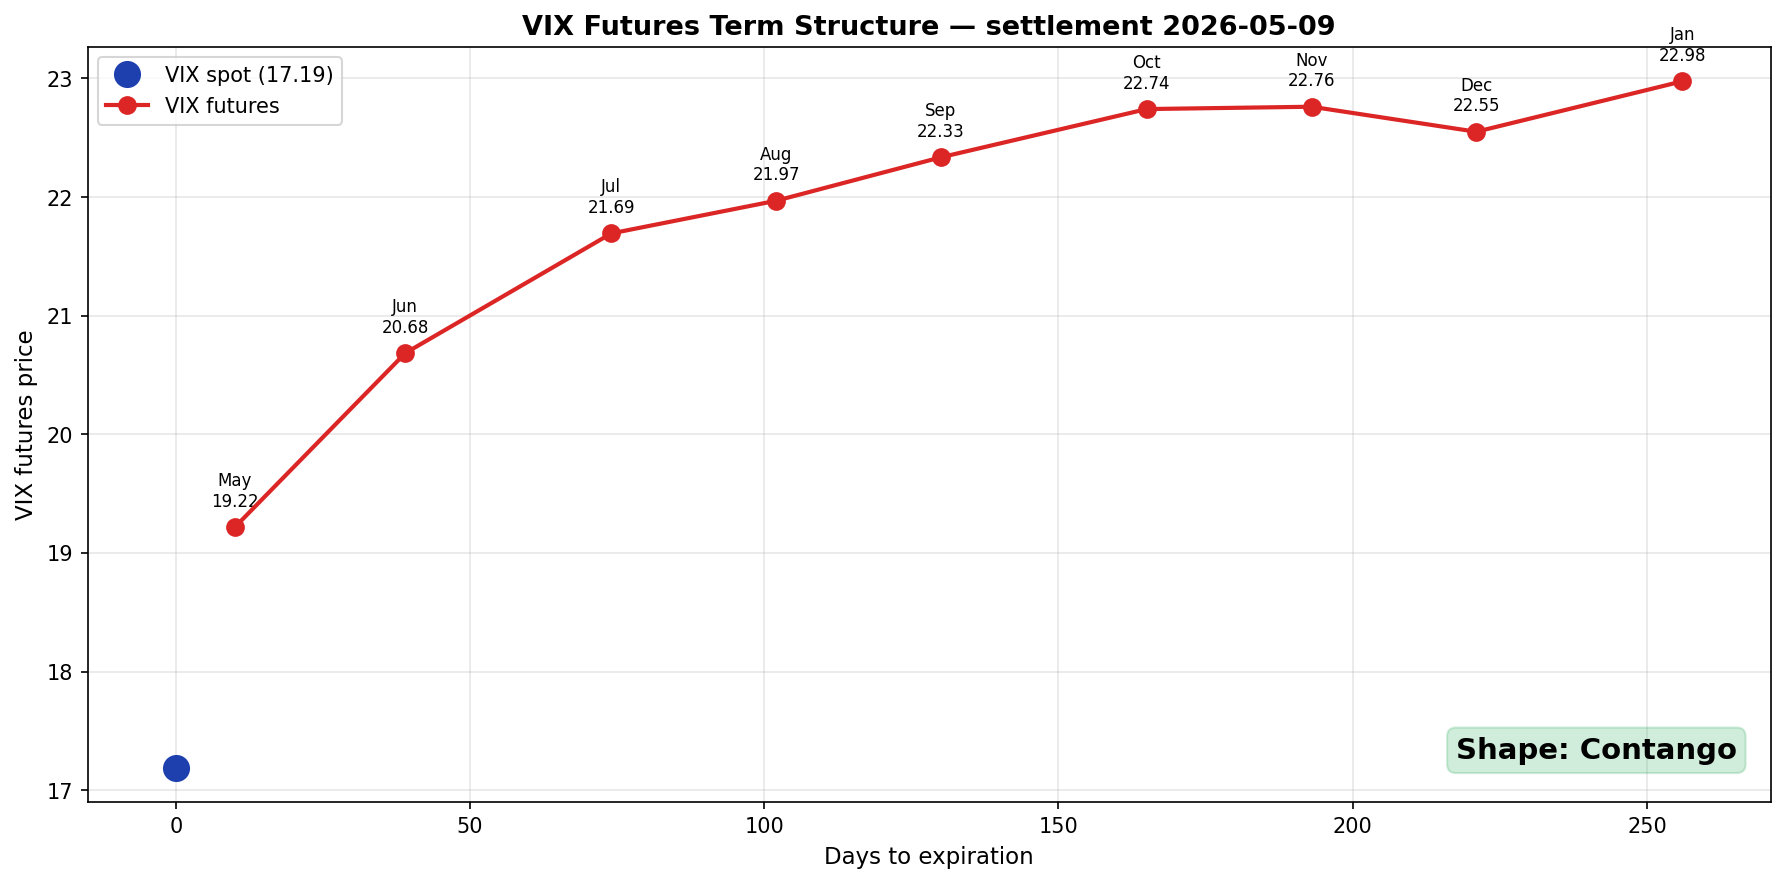
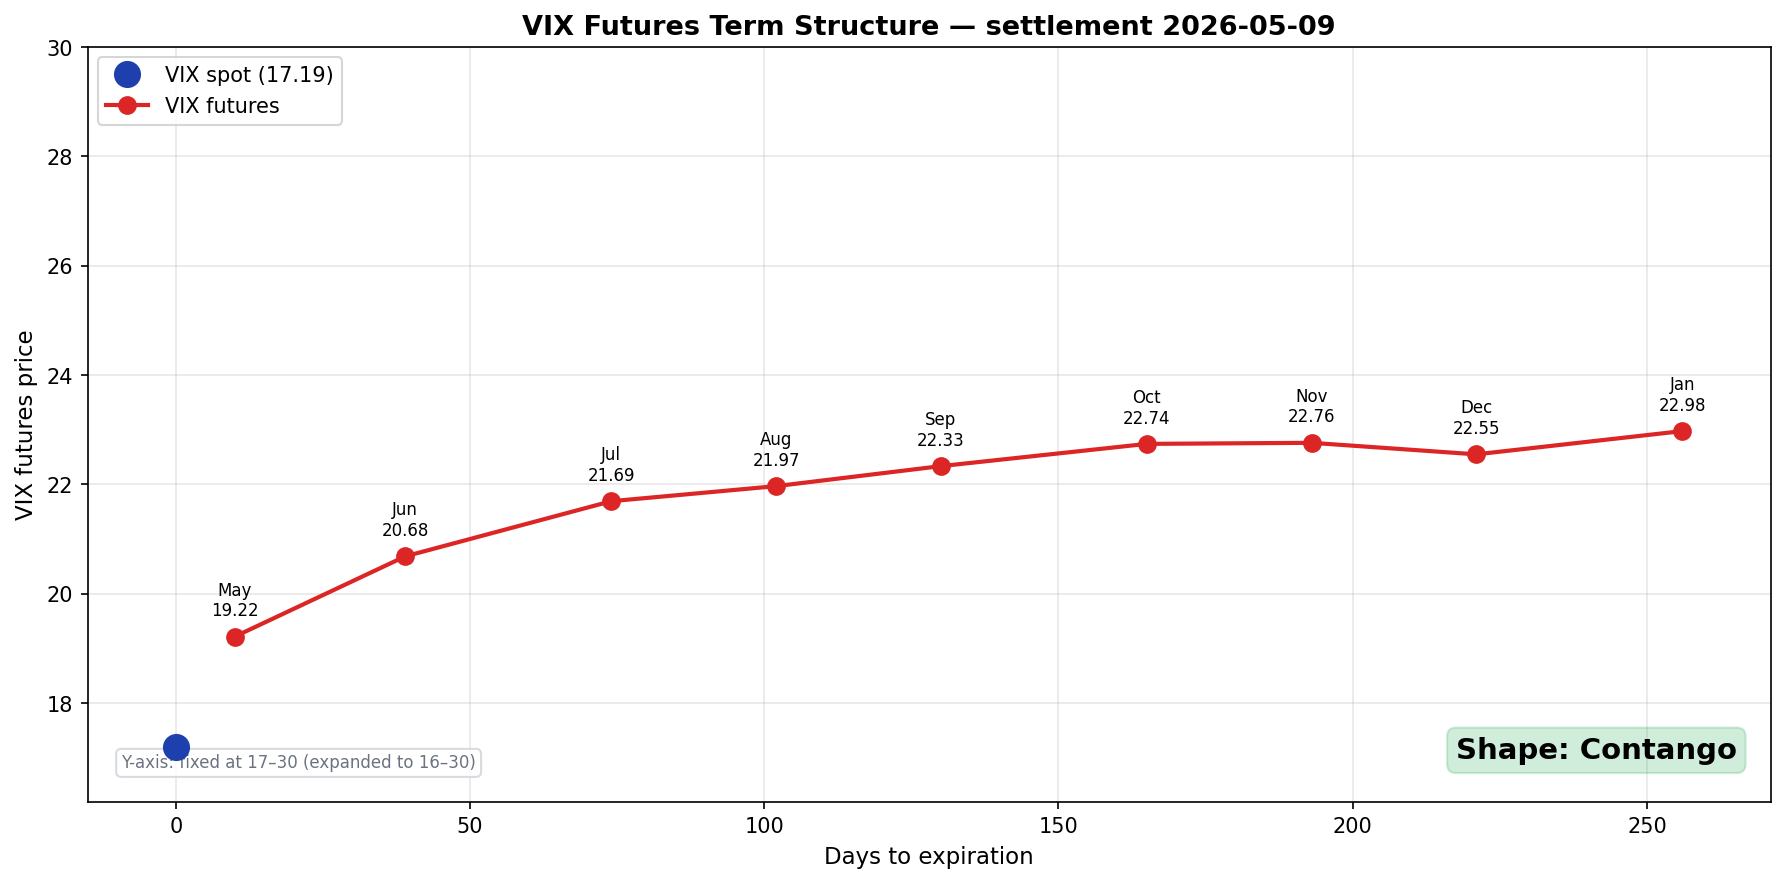
fix VIX TS Y-axis at 17-30 so daily levels are visually comparable
Previously the chart auto-scaled to fit each day's data, which meant a
calm 17-23 curve and a stressed 25-35 curve looked the same shape on
the canvas. The actual *level* of volatility — which is half the signal
— was getting normalized away.

New behavior:
- Default Y-axis: 17-30 (encompasses ~95% of post-2020 readings)
- If any value (VIX spot or any futures) falls outside [17, 30],
  expand the range to [data_min - 1, data_max + 1] so the curve still
  fits with a small margin
- A small bottom-left badge shows the current Y range so readers can
  see at a glance whether the chart is in default or expanded mode

Why bottom-left for the badge: top-left has the legend, bottom-right
has the contango/backwardation shape badge. Bottom-left is the only
quiet quadrant when the curve is in normal contango shape.

diff --git a/scripts/update_dashboard.py b/scripts/update_dashboard.py
@@ -253,6 +253,34 @@ def render_vix_term_structure(vx: pd.DataFrame, vix_spot: float, out_path: Path)
     ax.grid(alpha=0.3)
     ax.set_xlim(-15, max(vx["DTE"].max() if len(vx) else 30, 30) + 15)
 
+    # Fixed Y-axis range (17–30) so the visual position of the curve
+    # encodes the absolute volatility level day-to-day, not just the
+    # shape. Auto-expand only when actual data falls outside.
+    Y_MIN_DEFAULT, Y_MAX_DEFAULT = 17.0, 30.0
+    all_values = list(vx["Price"].dropna()) if len(vx) else []
+    if not np.isnan(vix_spot):
+        all_values.append(vix_spot)
+    if all_values:
+        data_min = min(all_values)
+        data_max = max(all_values)
+        # Use the wider of (default range) and (data range with margin)
+        y_min = min(Y_MIN_DEFAULT, data_min - 1.0)
+        y_max = max(Y_MAX_DEFAULT, data_max + 1.0)
+    else:
+        y_min, y_max = Y_MIN_DEFAULT, Y_MAX_DEFAULT
+    ax.set_ylim(y_min, y_max)
+
+    # Annotate "fixed scale" hint at bottom-left, away from legend (top-left)
+    # and shape badge (bottom-right)
+    ax.text(0.02, 0.04,
+            f"Y-axis: fixed at {Y_MIN_DEFAULT:.0f}–{Y_MAX_DEFAULT:.0f}"
+            + ("" if (y_min == Y_MIN_DEFAULT and y_max == Y_MAX_DEFAULT)
+               else f" (expanded to {y_min:.0f}–{y_max:.0f})"),
+            transform=ax.transAxes, fontsize=8, color="#6b7280",
+            ha="left", va="bottom",
+            bbox=dict(boxstyle="round,pad=0.3", facecolor="white",
+                      edgecolor="#d1d5db", alpha=0.85))
+
     plt.tight_layout()
     plt.savefig(out_path, dpi=150, bbox_inches="tight")
     plt.close()
